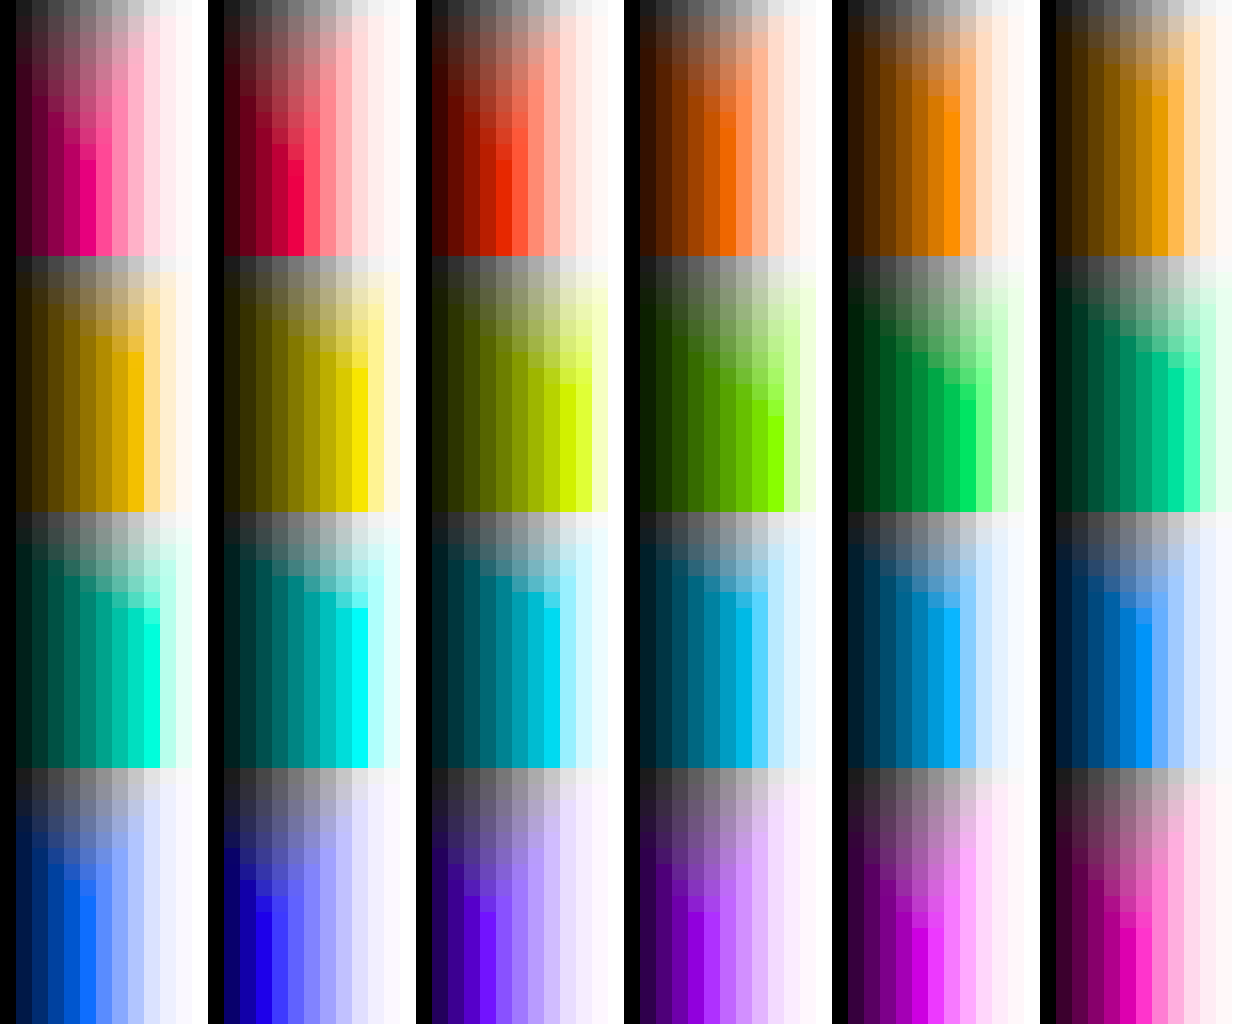
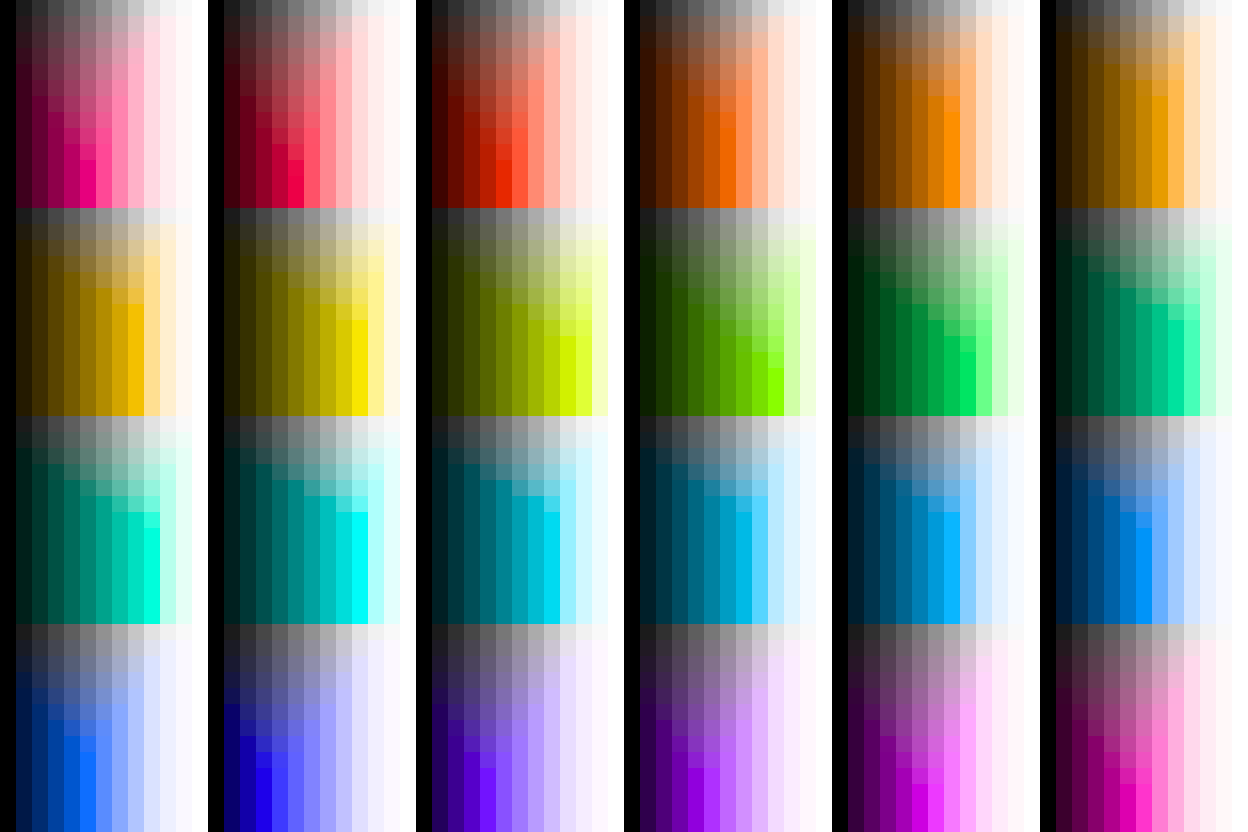
update maximum chroma in hct to 120 instead of 150, as that is a better general maximum value (see https://m3.material.io/styles/color/system/how-the-system-works#e4d1c787-e92f-4d6e-a757-cd6d5c3b298e)

diff --git a/core/colorpicker.go b/core/colorpicker.go
@@ -69,7 +69,7 @@ func (cp *ColorPicker) Init() {
 	})
 	tree.AddChild(cp, func(w *Slider) {
 		Bind(&cp.Color.Chroma, w)
-		w.SetMin(0).SetMax(150)
+		w.SetMin(0).SetMax(120)
 		w.SetTooltip("The chroma, which is the colorfulness/saturation of the color")
 		w.OnInput(func(e events.Event) {
 			cp.Color.SetChroma(w.Value)
@@ -80,9 +80,9 @@ func (cp *ColorPicker) Init() {
 			w.ValueColor = nil
 			w.ThumbColor = colors.C(cp.Color)
 			g := gradient.NewLinear()
-			for c := float32(0); c <= 150; c += 5 {
+			for c := float32(0); c <= 120; c += 5 {
 				gc := cp.Color.WithChroma(c)
-				g.AddStop(gc.AsRGBA(), c/150)
+				g.AddStop(gc.AsRGBA(), c/120)
 			}
 			s.Background = g
 		})

diff --git a/colors/cam/hct/hct.go b/colors/cam/hct/hct.go
@@ -42,8 +42,8 @@ type HCT struct {
 	// Chroma (C) is the colorfulness/saturation of the color.
 	// Grayscale colors have no chroma, and fully saturated ones
 	// have high chroma. The maximum varies as a function of hue
-	// and tone, but 150 is an upper bound.
-	Chroma float32 `min:"0" max:"150"`
+	// and tone, but 120 is a general upper bound.
+	Chroma float32 `min:"0" max:"120"`
 
 	// Tone is the L* component from the LAB (L*a*b*) color system,
 	// which is linear in human perception of lightness.

diff --git a/colors/cam/hct/colorspace_test.go b/colors/cam/hct/colorspace_test.go
@@ -23,7 +23,7 @@ func TestColorSpace(t *testing.T) {
 	huePages := 4
 	huePerPage := nHue / huePages
 	chromaInc := 10
-	chromaMax := 150
+	chromaMax := 120
 	nChroma := (chromaMax / chromaInc) + 1
 
 	// y axis is hue then chroma within that
